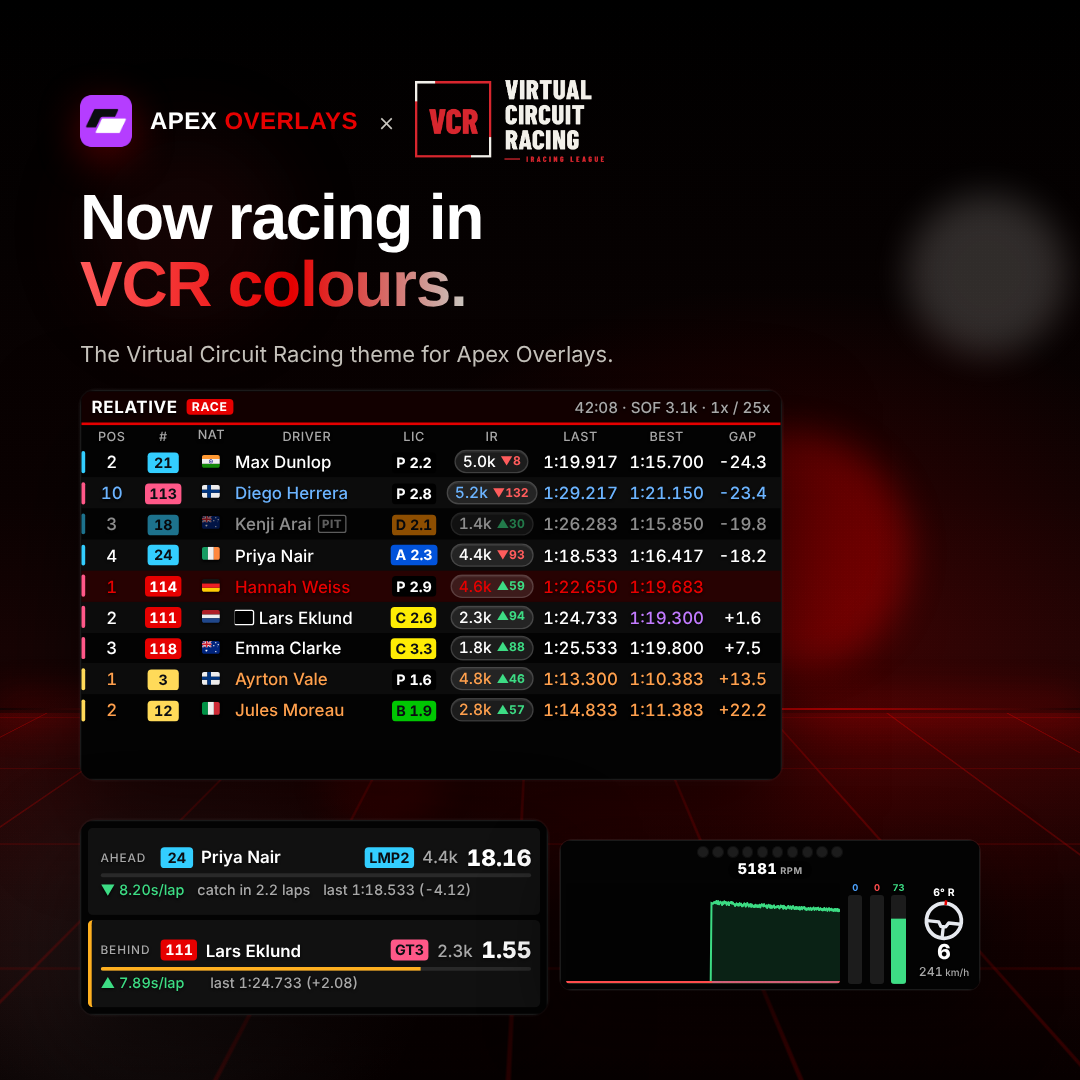
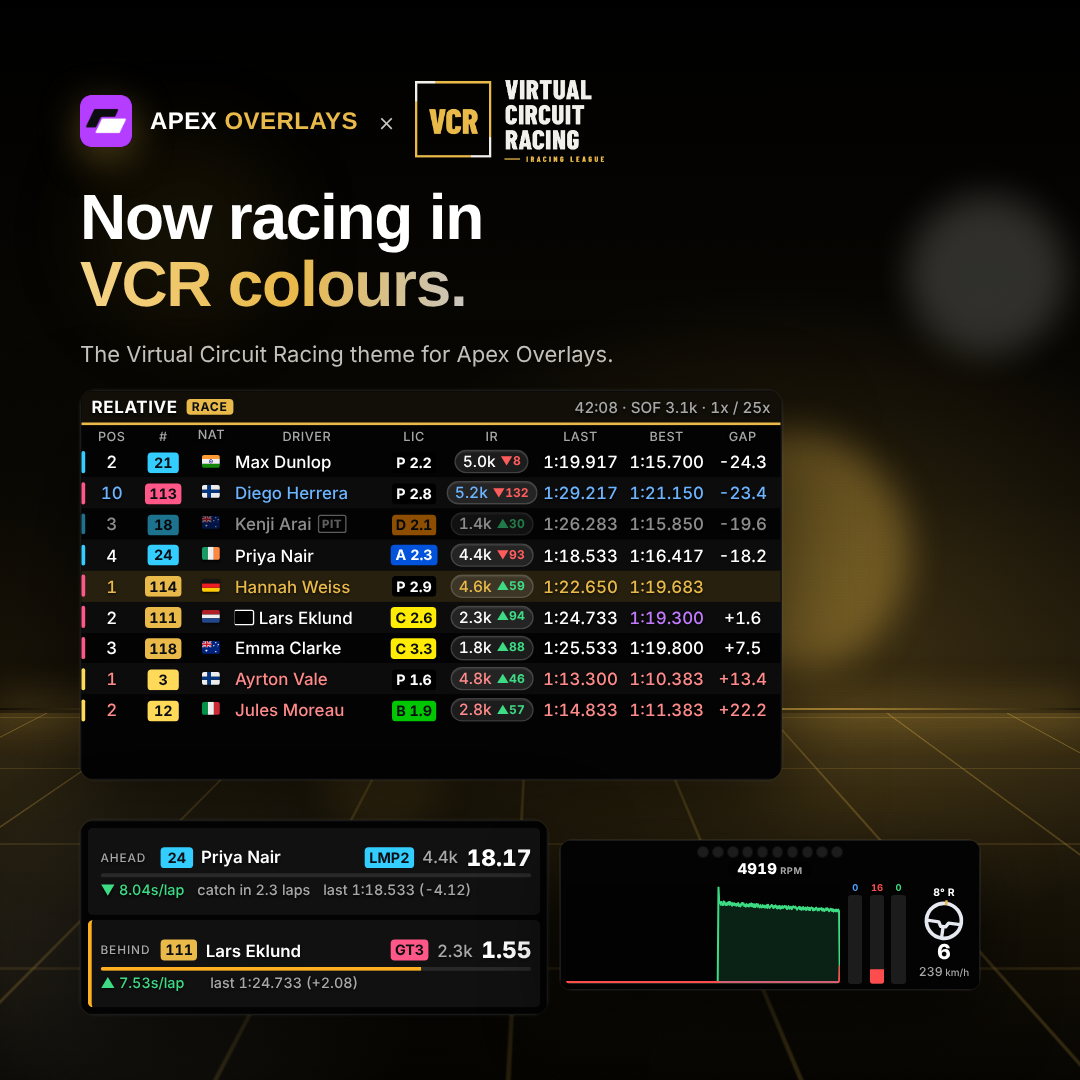
VCR theme in VCR's new yellow
Accent and your-car highlight #E9B949 (from the new logo) in place of
red, a neutral dark header, and cars a lap ahead in soft red so they
are not confused with the yellow. New logo on the theme card; the VCR
sample images redone in yellow.

Claude-Session: https://claude.ai/code/session_01GPu2QpiT75Md8f63JrvxZg

diff --git a/ui/src/lib/theme.ts b/ui/src/lib/theme.ts
@@ -199,7 +199,7 @@ export const PRESETS: Preset[] = [
     name: 'VCR',
     sponsored: true,
     logo: '/assets/teams/vcr.png',
-    values: { background: '#000000', headerBackground: '#140000', textColor: '#ffffff', dimColor: '#a8a8a8', accent: '#e60000', playerColor: '#e60000', bestColor: '#c27bff', goodColor: '#3ddc84', badColor: '#ff5c5c', lapAheadColor: '#ffa04d', lapBehindColor: '#6cb4ff' },
+    values: { background: '#000000', headerBackground: '#14110a', textColor: '#ffffff', dimColor: '#a8a8a8', accent: '#e9b949', playerColor: '#e9b949', bestColor: '#c27bff', goodColor: '#3ddc84', badColor: '#ff5c5c', lapAheadColor: '#ff8a8a', lapBehindColor: '#6cb4ff' },
   },
   {
     name: 'JWB',

diff --git a/CHANGELOG.md b/CHANGELOG.md
@@ -4,6 +4,11 @@ The section for each version is shown in the in-app update pop-up and on the Git
 Each version groups its changes under `### New features`, `### Improvements` and `### Fixes`
 (plus `### Performance` or `### Removed` when needed).
 
+## Unreleased
+
+### Improvements
+- VCR theme: VCR’s new colours, yellow (#E9B949) in place of red, with its new logo on the theme card. Cars a lap ahead are now soft red, so they stand apart from your car’s yellow
+
 ## 1.1.1
 
 ### New features
